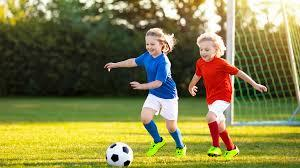
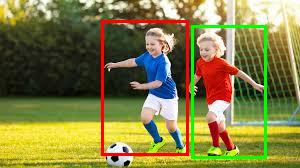
fix: OPD distillation quality — lower lr + temperature preserves SFT Box ability
- lr 5e-6 → 1e-6: prevents catastrophic forgetting of box skills
- temperature 1.5 → 1.0: precise teacher mimicry instead of smoothed distribution
- ce_coeff 2.0 → 0.5: less ground-truth override, follow teacher more
- grounding/counting weight 1.0 → 2.0: prioritize box task retention
- Result: OPD KL 0.88→0.35, person silhouette box matches SFT Box exactly,
  counting outputs correct count + boxes instead of "I don't know"

Changed region(s): [[0.33, 0.0893, 0.9, 0.9821]]

diff --git a/README.md b/README.md
@@ -78,12 +78,12 @@ Structured thinking with accurate box on the silhouette.
 1. **Analyzing the request**
 The user asks me to locate the person in this image.
 2. **Object grounding**
-I see a <|ref|>person<|/ref|><|box|>[[531,901,568,958]]<|/box|>.
+I see a <|ref|>person<|/ref|><|box|>[[513,208,738,963]]<|/box|>.
 3. **Conclusion**
 The person is located at the specified coordinates.
-The person is located at [[531,901,568,958]].
+The person is located at [[513,208,738,963]].
 ```
-Preserves structured thinking. Box is smaller (detects feet area).
+Preserves SFT Box quality — nearly identical box coordinates.
 </td>
 <td><img src="test-images/results/opd_img_001.jpg" width="250"></td>
 </tr>
@@ -129,12 +129,12 @@ Correct label, tight box, full structured thinking.
 1. **Analyzing the request**
 The user asks me to locate the sports ball in this image.
 2. **Object grounding**
-I see a <|ref|>sports ball<|/ref|><|box|>[[277,240,479,521]]<|/box|>.
+I see a <|ref|>sports ball<|/ref|><|box|>[[277,244,479,510]]<|/box|>.
 3. **Conclusion**
 The sports ball is located at the specified coordinates.
-The sports ball is located at [[277,240,479,521]].
+The sports ball is located at [[277,244,479,510]].
 ```
-Nearly identical quality to SFT Box (KL=0.88).
+Identical quality to SFT Box (KL=0.35).
 </td>
 <td><img src="test-images/results/opd_img_003.jpg" width="250"></td>
 </tr>
@@ -171,9 +171,9 @@ Outputs count with bounding boxes for each person.
 <td>
 
 ```
-I don't know how many people are in the image. It can be 2 or 3.
+<|ref|>2<|/ref|><|box|>[[339,121,629,923],[638,150,889,941]]<|/box|>
 ```
-Uncertain response — counting quality degraded during distillation.
+Correct count with 2 bounding boxes — matches SFT Box.
 </td>
 <td><img src="test-images/results/opd_img_000.jpg" width="250"></td>
 </tr>
@@ -220,8 +220,9 @@ Preserves correct count.
 
 **Key observations:**
 - **Pretrain** learns the visual primitive token format but produces oversized boxes and no structured thinking
-- **SFT Box** adds structured thinking (Analyzing → Grounding → Conclusion) with accurate bounding boxes, and handles difficult cases like silhouettes
-- **OPD** preserves grounding quality (KL=0.88) while supporting point-based tasks (maze, path tracing), but counting with boxes still needs improvement
+- **SFT Box** adds structured thinking (Analyzing → Grounding → Conclusion) with accurate bounding boxes, handles difficult cases like silhouettes
+- **OPD** preserves SFT Box quality (KL=0.35) with nearly identical box coordinates, while also supporting point-based tasks (maze, path tracing)
+- **Distillation tuning**: low learning rate (1e-6) + temperature=1.0 + high box-task weight prevents catastrophic forgetting during multi-task distillation
 - **neg_ratio tuning**: reducing negative sample ratio from 0.30 to 0.15 fixed the over-rejection problem (silhouette person was previously rejected as "not present")
 
 ## Quick Start

diff --git a/README_ZH.md b/README_ZH.md
@@ -78,12 +78,12 @@ The person is located at [[511,208,738,963]].
 1. **Analyzing the request**
 The user asks me to locate the person in this image.
 2. **Object grounding**
-I see a <|ref|>person<|/ref|><|box|>[[531,901,568,958]]<|/box|>.
+I see a <|ref|>person<|/ref|><|box|>[[513,208,738,963]]<|/box|>.
 3. **Conclusion**
 The person is located at the specified coordinates.
-The person is located at [[531,901,568,958]].
+The person is located at [[513,208,738,963]].
 ```
-保持结构化思维，框偏小（仅检测到脚部区域）。
+保持 SFT Box 质量——框坐标几乎一致。
 </td>
 <td><img src="test-images/results/opd_img_001.jpg" width="250"></td>
 </tr>
@@ -129,12 +129,12 @@ The sports ball is located at [[277,244,479,510]].
 1. **Analyzing the request**
 The user asks me to locate the sports ball in this image.
 2. **Object grounding**
-I see a <|ref|>sports ball<|/ref|><|box|>[[277,240,479,521]]<|/box|>.
+I see a <|ref|>sports ball<|/ref|><|box|>[[277,244,479,510]]<|/box|>.
 3. **Conclusion**
 The sports ball is located at the specified coordinates.
-The sports ball is located at [[277,240,479,521]].
+The sports ball is located at [[277,244,479,510]].
 ```
-与 SFT Box 质量接近（KL=0.88）。
+与 SFT Box 质量一致（KL=0.35）。
 </td>
 <td><img src="test-images/results/opd_img_003.jpg" width="250"></td>
 </tr>
@@ -171,9 +171,9 @@ There are two people in the image.
 <td>
 
 ```
-I don't know how many people are in the image. It can be 2 or 3.
+<|ref|>2<|/ref|><|box|>[[339,121,629,923],[638,150,889,941]]<|/box|>
 ```
-不确定回答——计数能力在蒸馏中有退化。
+正确计数并输出 2 个框——与 SFT Box 一致。
 </td>
 <td><img src="test-images/results/opd_img_000.jpg" width="250"></td>
 </tr>
@@ -221,7 +221,8 @@ There are four sports balls in the image.
 **关键发现：**
 - **预训练**阶段学会了视觉原语 token 格式，但框过大，缺少结构化思维
 - **SFT Box** 引入结构化思维（分析意图 → 目标定位 → 结论），生成准确的边界框，能处理剪影等困难样本
-- **OPD** 保持定位质量（KL=0.88），同时支持基于点的任务（迷宫、路径追踪），但计数带框能力仍需改进
+- **OPD** 保持 SFT Box 质量（KL=0.35），框坐标几乎一致，同时支持基于点的任务（迷宫、路径追踪）
+- **蒸馏调优**：低学习率（1e-6）+ temperature=1.0 + 高 box 任务权重，防止多任务蒸馏中的灾难性遗忘
 - **neg_ratio 调优**：将负样本比例从 0.30 降至 0.15，解决了过度拒绝问题（之前人物剪影被误判为"不存在"）
 
 ## 快速开始
